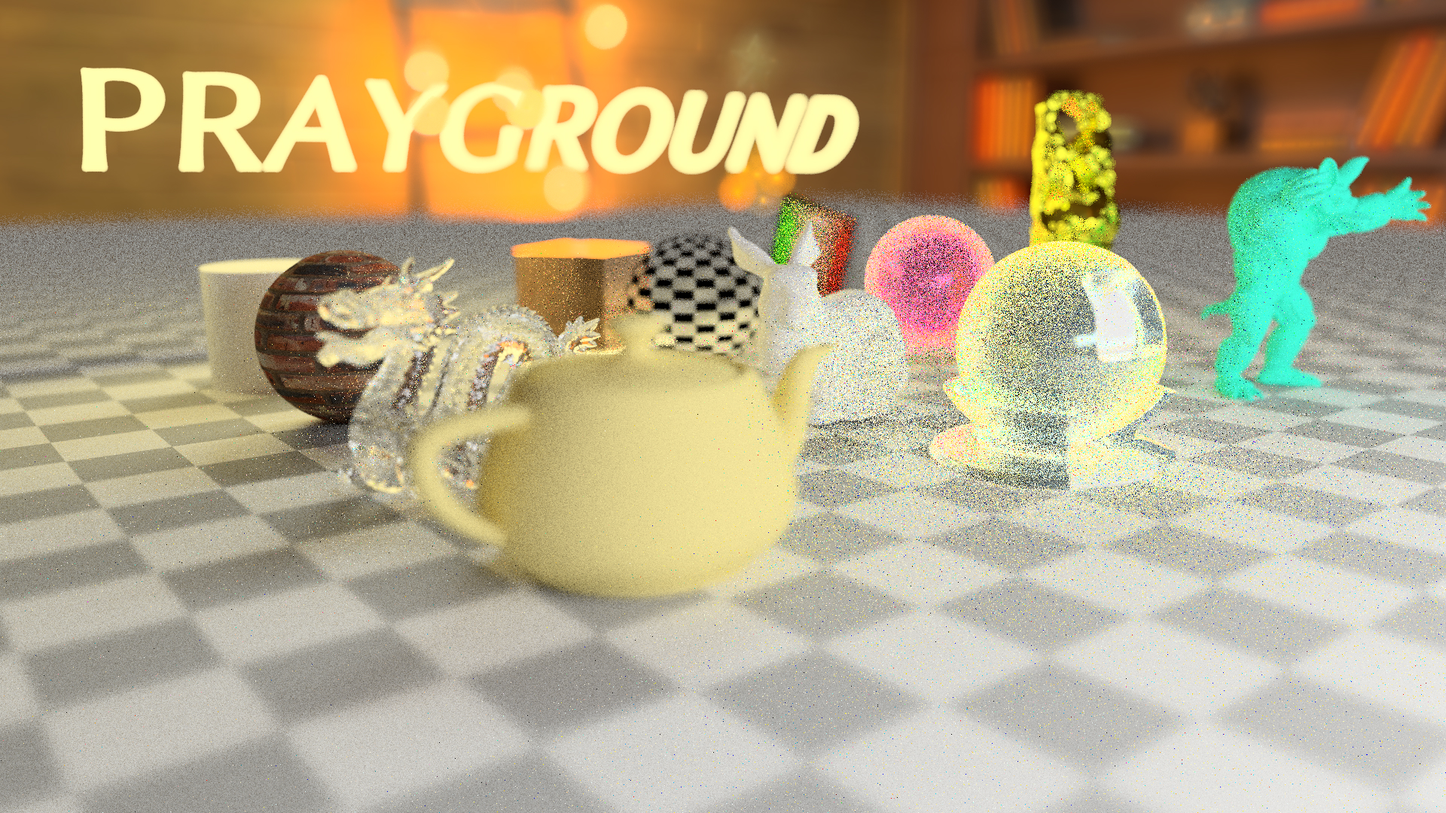
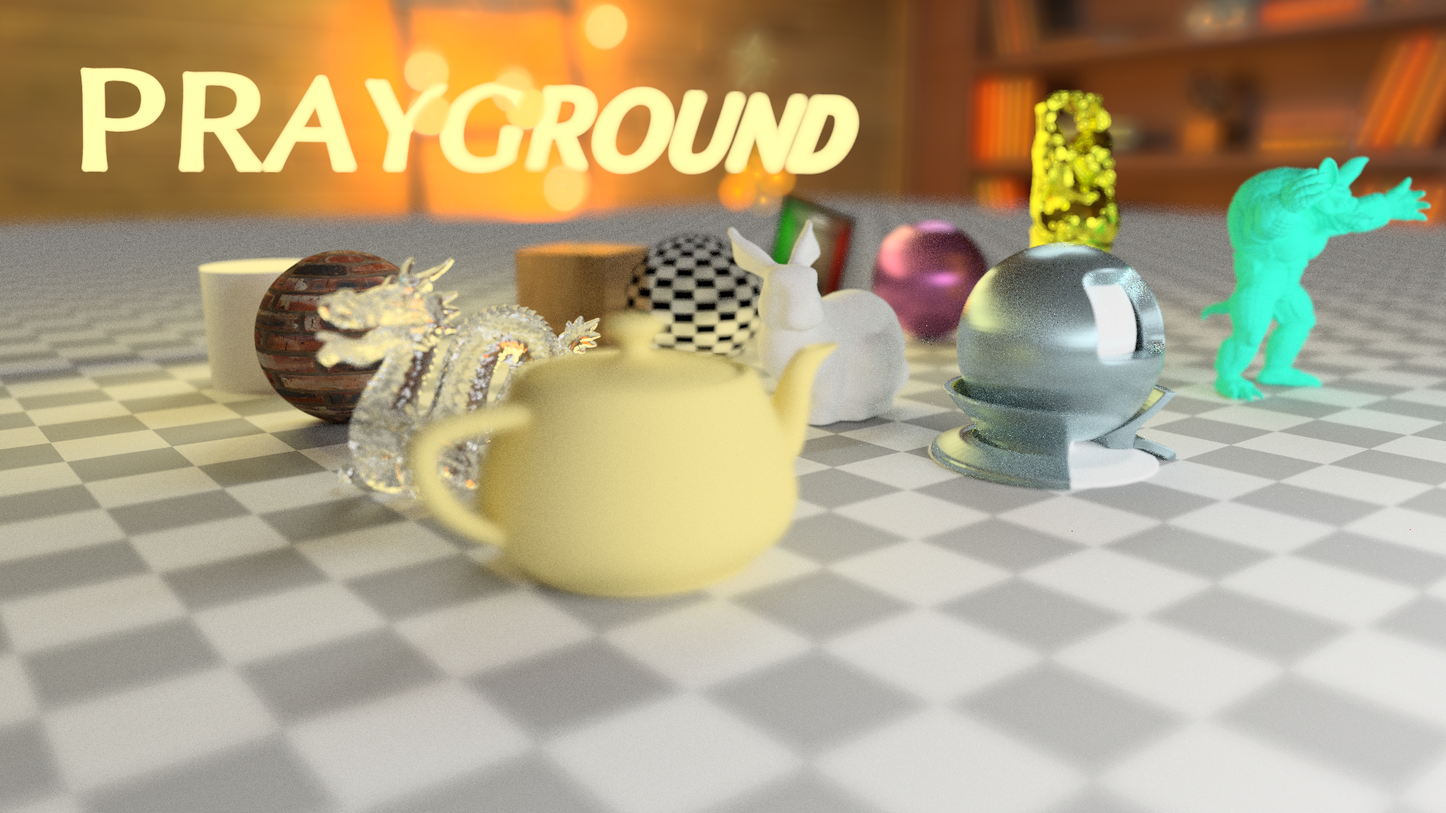
Fix PDF of disney BRDF

diff --git a/examples/thumbnail/app.cpp b/examples/thumbnail/app.cpp
@@ -324,7 +324,7 @@ void App::setup()
     materials.emplace("wooden_disney", wooden_disney);
     
     lights.emplace("logo1", AreaEmitter{ textures.at("orange"), 150.0f, true });
-    lights.emplace("logo2", AreaEmitter{ textures.at("white"), 300.0f, true });
+    lights.emplace("logo2", AreaEmitter{ textures.at("white"),  300.0f, true });
 
     shapes.emplace("plane", new Plane(make_float2(-0.5f), make_float2(0.5f)));
     shapes.emplace("sphere", new Sphere(make_float3(0.0f), 1.0f));
@@ -532,8 +532,10 @@ void App::draw()
 
     ImGui_ImplOpenGL3_RenderDrawData(ImGui::GetDrawData());
 
-    if (params.subframe_index == 4096)
+    if (params.subframe_index == 20000) {
         result_bitmap.write(pgPathJoin(pgAppDir(), "thumbnail.jpg"));
+        pgExit();
+    }
 }
 
 // ----------------------------------------------------------------

diff --git a/prayground/core/bitmap.cpp b/prayground/core/bitmap.cpp
@@ -189,7 +189,7 @@ void Bitmap_<float>::load(const std::filesystem::path& filename)
     if (ext == ".exr" || ext == ".EXR" || ext == ".hdr" || ext == ".HDR")
     {
         std::string kind = ext == ".exr" || ext == ".EXR" ? "EXR" : "HDR";
-        Message(MSG_NORMAL, "Loading kind file '" + filepath.value().string() + "' ...");
+        Message(MSG_NORMAL, "Loading " + kind + " file '" + filepath.value().string() + "' ...");
         m_format = m_format == PixelFormat::NONE ? PixelFormat::RGBA : m_format;
 
         const char* err = nullptr;

diff --git a/README.md b/README.md
@@ -8,7 +8,7 @@ PRayGround is a C++/CUDA library with OptiX 7 that provides you with an easy and
 
 This project still remain a huge room to improve its readability, performance, and scalability. I'd appreciate it if you advise me any things!
 
-![output.png](result/016_env.jpg)
+![output.png](examples/thumbnail/thumbnail.jpg)
 
 # :computer: Requirements
 Before building the project, please be sure to check requirements and your environment, especially if the your version of the C++ compiler supports C++20.
